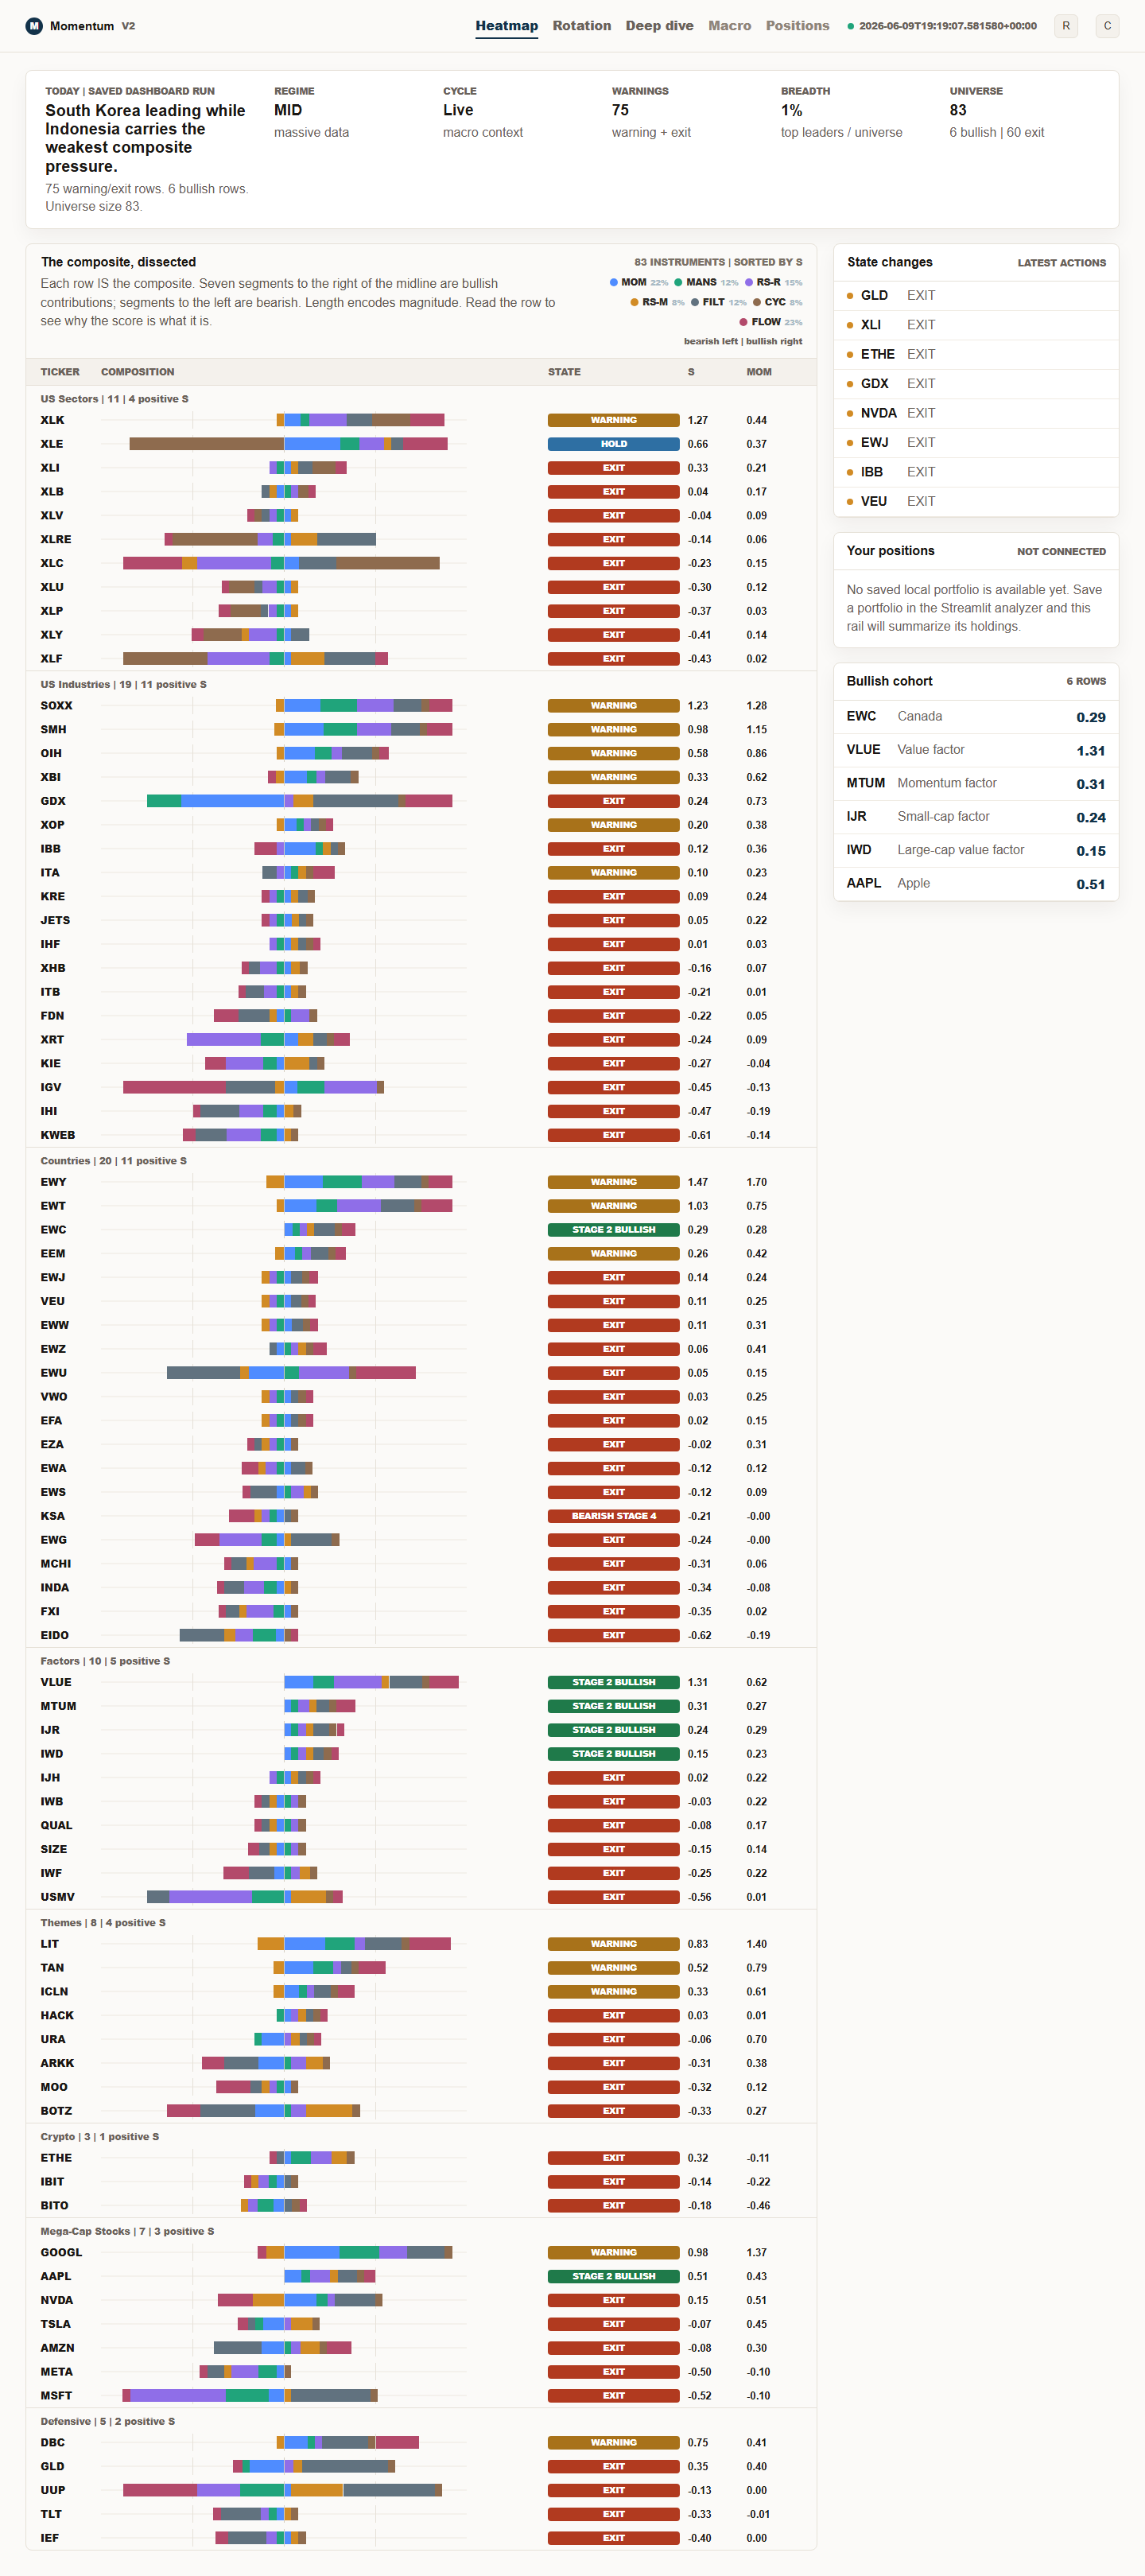
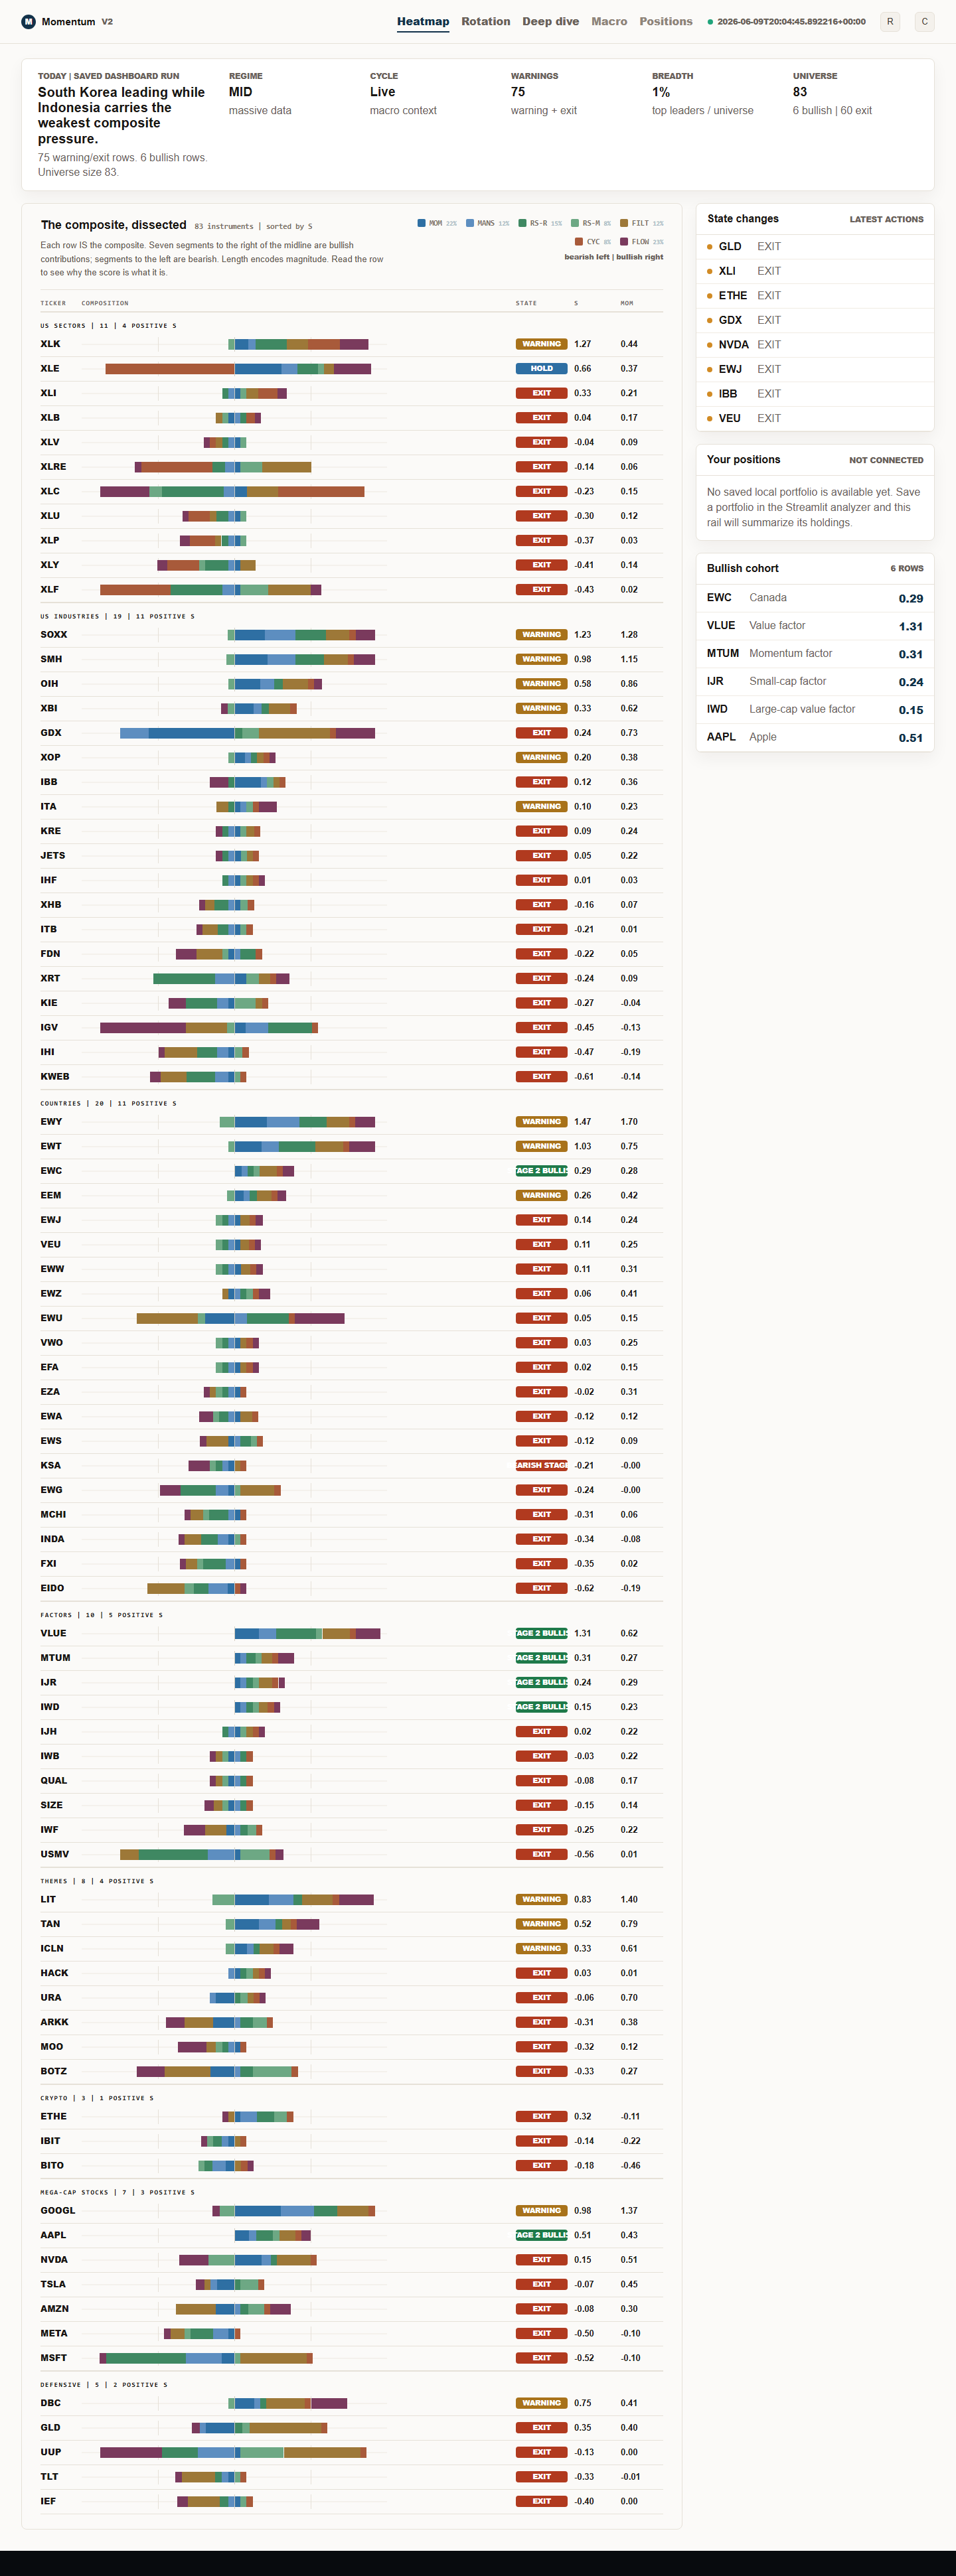
Improve C1 heatmap handoff parity

diff --git a/web/app/globals.css b/web/app/globals.css
@@ -3184,6 +3184,8 @@ select:focus-visible {
 }
 
 .pillar-heatmap-card {
+  padding: 22px 28px;
+  background: #fff;
   overflow: visible;
 }
 
@@ -3199,6 +3201,15 @@ select:focus-visible {
   gap: 20px;
   padding: 14px 18px;
   border-bottom: 1px solid #e6e1d8;
+}
+
+.pillar-heatmap-card .chart-heading {
+  margin: 0 0 8px;
+  padding: 0 0 14px;
+}
+
+.c-heatmap-heading {
+  align-items: flex-start;
 }
 
 .chart-heading-meta {
@@ -3226,10 +3237,32 @@ select:focus-visible {
   font-size: 1rem;
 }
 
+.c-heatmap-heading h3 {
+  display: inline;
+  margin-right: 12px;
+  font-size: 1.125rem;
+  font-weight: 700;
+  letter-spacing: 0;
+}
+
+.c-heatmap-heading div:first-child > span {
+  color: #7a7066;
+  font-family: ui-monospace, SFMono-Regular, Consolas, monospace;
+  font-size: 0.72rem;
+  font-weight: 800;
+}
+
 .chart-heading p {
   margin: 0;
   color: #5d554d;
   line-height: 1.45;
+}
+
+.c-heatmap-heading p {
+  max-width: 680px;
+  margin-top: 10px;
+  font-size: 0.82rem;
+  line-height: 1.55;
 }
 
 .chart-heading strong {
@@ -3240,7 +3273,7 @@ select:focus-visible {
 .pillar-legend {
   display: flex;
   flex-wrap: wrap;
-  gap: 8px;
+  gap: 14px;
   align-items: center;
   justify-content: flex-end;
   min-width: 240px;
@@ -3249,32 +3282,36 @@ select:focus-visible {
 .pillar-legend span {
   display: inline-flex;
   align-items: center;
-  gap: 5px;
+  gap: 6px;
   color: #312c27;
-  font-size: 0.72rem;
+  font-family: ui-monospace, SFMono-Regular, Consolas, monospace;
+  font-size: 0.66rem;
   font-weight: 800;
 }
 
 .pillar-legend i {
-  width: 10px;
-  height: 10px;
-  border-radius: 50%;
+  width: 12px;
+  height: 12px;
+  border-radius: 2px;
 }
 
 .composition-header,
 .composition-row {
   display: grid;
-  grid-template-columns: 66px minmax(260px, 1fr) minmax(110px, 0.3fr) 64px 70px;
+  grid-template-columns: 52px minmax(260px, 1fr) 78px 60px 64px;
   gap: 10px;
   align-items: center;
 }
 
 .composition-header {
-  padding: 8px 18px;
+  padding: 6px 0;
   color: #6a625a;
-  background: #f4f1ec;
-  font-size: 0.72rem;
+  background: transparent;
+  border-bottom: 1px solid #e6e1d8;
+  font-family: ui-monospace, SFMono-Regular, Consolas, monospace;
+  font-size: 0.64rem;
   font-weight: 800;
+  letter-spacing: 0.08em;
   text-transform: uppercase;
 }
 
@@ -3283,21 +3320,25 @@ select:focus-visible {
 }
 
 .composition-class {
-  padding: 8px 18px 3px;
-  color: #6a625a;
-  font-size: 0.74rem;
+  padding: 14px 0 4px;
+  color: #1a1714;
+  font-family: ui-monospace, SFMono-Regular, Consolas, monospace;
+  font-size: 0.64rem;
   font-weight: 800;
+  letter-spacing: 0.12em;
+  text-transform: uppercase;
 }
 
 .composition-row {
   width: 100%;
-  min-height: 25px;
-  padding: 4px 18px;
+  min-height: 36px;
+  padding: 7px 0;
   color: #1a1714;
   font: 700 0.82rem/1.05 Arial, Helvetica, sans-serif;
   text-align: left;
   background: transparent;
   border: 0;
+  border-bottom: 1px solid #e6e1d8;
   cursor: pointer;
 }
 

diff --git a/web/app/chart-primitives.tsx b/web/app/chart-primitives.tsx
@@ -21,13 +21,13 @@ type PillarContribution = PillarDef & {
 };
 
 const PILLARS: PillarDef[] = [
-  { key: "mom_12_1", code: "MOM", fullName: "12-1 Momentum", label: "Momentum", hue: "#4f8cff", weight: 0.22, reading: "12-1 price momentum contribution", evidence: "Jegadeesh & Titman 1993" },
-  { key: "mansfield_rs", code: "MANS", fullName: "Mansfield RS", label: "Mansfield RS", hue: "#20a47b", weight: 0.12, reading: "relative strength against the benchmark", evidence: "Weinstein 1988" },
-  { key: "rs_ratio", code: "RS-R", fullName: "RRG RS-Ratio", label: "RS ratio", hue: "#8f6ee8", weight: 0.15, reading: "RRG relative-strength ratio", evidence: "de Kempenaer 2004" },
-  { key: "rs_momentum", code: "RS-M", fullName: "RRG RS-Momentum", label: "RS momentum", hue: "#d18b25", weight: 0.08, reading: "RRG relative-strength momentum", evidence: "classic rotation signal" },
-  { key: "breadth_50d", code: "FILT", fullName: "Binary Filters", label: "Trend filter", hue: "#61727f", weight: 0.12, reading: "market breadth and trend filter", evidence: "Faber + Stage2 + Antonacci" },
-  { key: "cycle_tilt", code: "CYC", fullName: "Business-Cycle Tilt", label: "Cycle tilt", hue: "#8e6b4e", weight: 0.08, reading: "business-cycle adjustment", evidence: "Stovall 1996 / Fidelity" },
-  { key: "cmf21", code: "FLOW", fullName: "Institutional Flow", label: "Flow", hue: "#b34a6b", weight: 0.23, reading: "money-flow pressure", evidence: "Chaikin / Granville / Chordia-Swaminathan" },
+  { key: "mom_12_1", code: "MOM", fullName: "12-1 Momentum", label: "Momentum", hue: "#2e6fa3", weight: 0.22, reading: "12-1 price momentum contribution", evidence: "Jegadeesh & Titman 1993" },
+  { key: "mansfield_rs", code: "MANS", fullName: "Mansfield RS", label: "Mansfield RS", hue: "#5d8ec0", weight: 0.12, reading: "relative strength against the benchmark", evidence: "Weinstein 1988" },
+  { key: "rs_ratio", code: "RS-R", fullName: "RRG RS-Ratio", label: "RS ratio", hue: "#3f8862", weight: 0.15, reading: "RRG relative-strength ratio", evidence: "de Kempenaer 2004" },
+  { key: "rs_momentum", code: "RS-M", fullName: "RRG RS-Momentum", label: "RS momentum", hue: "#6da884", weight: 0.08, reading: "RRG relative-strength momentum", evidence: "classic rotation signal" },
+  { key: "breadth_50d", code: "FILT", fullName: "Binary Filters", label: "Trend filter", hue: "#9d7838", weight: 0.12, reading: "market breadth and trend filter", evidence: "Faber + Stage2 + Antonacci" },
+  { key: "cycle_tilt", code: "CYC", fullName: "Business-Cycle Tilt", label: "Cycle tilt", hue: "#a85a3a", weight: 0.08, reading: "business-cycle adjustment", evidence: "Stovall 1996 / Fidelity" },
+  { key: "cmf21", code: "FLOW", fullName: "Institutional Flow", label: "Flow", hue: "#7a3a5d", weight: 0.23, reading: "money-flow pressure", evidence: "Chaikin / Granville / Chordia-Swaminathan" },
 ];
 
 const CLASS_ORDER = [
@@ -198,13 +198,13 @@ export function PillarHeatmap({
   const sortedRows = rows.slice().sort((a, b) => b.s_score - a.s_score);
   return (
     <section className="chart-card light-card pillar-heatmap-card" aria-label="Composite pillar-stack heatmap" title={sourceNote}>
-      <div className="chart-heading">
+      <div className="chart-heading c-heatmap-heading">
         <div>
           <h3>The composite, dissected</h3>
+          <span>{rows.length} instruments | sorted by S</span>
           <p>Each row IS the composite. Seven segments to the right of the midline are bullish contributions; segments to the left are bearish. Length encodes magnitude. Read the row to see why the score is what it is.</p>
         </div>
         <div className="chart-heading-meta">
-          <span>{rows.length} instruments | sorted by S</span>
           <PillarLegend />
           <span className="composition-axis-copy">bearish left | bullish right</span>
         </div>

diff --git a/tests/test_next_shell_static.py b/tests/test_next_shell_static.py
@@ -252,6 +252,31 @@ def test_next_shell_pillar_stack_has_native_value_specific_tooltips():
     assert "white-space: normal;" in css_source
 
 
+def test_next_shell_c1_heatmap_uses_handoff_pillar_palette_and_layout():
+    chart_source = (WEB / "app" / "chart-primitives.tsx").read_text(encoding="utf-8")
+    css_source = (WEB / "app" / "globals.css").read_text(encoding="utf-8")
+
+    for hue in ("#2e6fa3", "#5d8ec0", "#3f8862", "#6da884", "#9d7838", "#a85a3a", "#7a3a5d"):
+        assert hue in chart_source
+    for marker in (
+        'className="chart-heading c-heatmap-heading"',
+        "{rows.length} instruments | sorted by S",
+        "PillarLegend",
+        "composition-axis-copy",
+    ):
+        assert marker in chart_source
+    for marker in (
+        ".pillar-heatmap-card",
+        "padding: 22px 28px;",
+        "background: #fff;",
+        ".c-heatmap-heading h3",
+        "grid-template-columns: 52px minmax(260px, 1fr) 78px 60px 64px;",
+        "font-family: ui-monospace, SFMono-Regular, Consolas, monospace;",
+        "border-bottom: 1px solid #e6e1d8;",
+    ):
+        assert marker in css_source
+
+
 def test_next_shell_rrg_and_flow_have_native_value_specific_tooltips():
     chart_source = (WEB / "app" / "chart-primitives.tsx").read_text(encoding="utf-8")
     css_source = (WEB / "app" / "globals.css").read_text(encoding="utf-8")

diff --git a/docs/BACKLOG.md b/docs/BACKLOG.md
@@ -16,7 +16,7 @@ Status legend:
 **Behavior:** adds a pure JSON status contract for dashboard health lanes and an optional FastAPI app factory with `/api/v1/health`, `/api/v1/status`, `GET /api/v1/data-health`, `GET /api/v1/provider-health`, `GET /api/v1/dashboard-snapshot`, `GET /api/v1/backtest-artifacts`, `GET /api/v1/ticker-chart`, `POST /api/v1/portfolio/analyze`, `GET /api/v1/portfolios`, `POST /api/v1/portfolios`, `DELETE /api/v1/portfolios?name=...`, `POST /api/v1/refresh`, `GET /api/v1/refresh/{job_id}`, and `GET /api/v1/refresh/{job_id}/events`. The default API status provider reads persisted state-machine storage, run-journal metadata, and Massive provider-snapshot coverage without importing Streamlit, fetching providers, recomputing indicators, or mutating live scoring state. The data/provider-health API additionally exposes provider-flow readiness and provider-flow cache coverage from persisted/configured state only, so future clients can show provider health without live provider calls. The backtest artifact API reports existing manual report/equity/state artifact presence, timestamps, hashes, metadata verification state, report text, and equity rows without running backtests, calibration, provider fetches, or research jobs; the Next shell consumes it in a collapsed Backtest Lab panel with artifact statuses, report preview, and an API-row equity preview. The ticker chart API reads cached OHLCV only, computes weekly close, 30-week moving average, CMF(21), OBV, OBV slope, benchmark-relative RS ratio, 12-week momentum, and 52-week momentum rows, and the React C2 deep dive fetches the selected ticker chart asynchronously while falling back to saved gate evidence if cached chart data is unavailable. The portfolio analysis API accepts a single ticker, JSON holdings, CSV text, or base64 CSV/XLSX content and maps holdings onto the latest persisted dashboard snapshot without provider fetches, scoring recompute, broker calls, portfolio persistence, or state writes; saved-portfolio routes explicitly reuse `data/saved_inputs.json` for named portfolio list/save/delete. The Next shell now includes an API-backed portfolio analyzer for ticker, pasted CSV, and uploaded CSV/XLS/XLSX inputs, with exposure summaries, missing ticker diagnostics, click-through rows into the dashboard focus, and explicit save/load/delete controls for named portfolios. Refresh jobs and progress events are persisted in local SQLite so a future React/Next.js frontend can create refresh requests and reconnect to progress state while the current dashboard keeps running. The refresh endpoint is queue-only by default; when a caller explicitly sends `run_now: true`, `src/api_refresh_runner.py` executes the existing headless Massive/FRED/dashboard refresh sequence and records phase progress. The first Next.js shell under `web/` consumes `/api/v1/health`, `/api/v1/data-health`, and `/api/v1/dashboard-snapshot`, renders persisted/provider health lanes plus A/B/C overview, deep-dive, and rotation sections from the latest run-journal snapshot, keeps provider calls behind the API, and now has native React screen selection, sortable overview lists, ticker focus selection, click-through cards/rows, rotation quadrant filtering, API-fed SVG primitives for pillar-stack rows, ticker waterfall, RRG, momentum bars, a relative-strength/momentum deep-dive panel, and a data-derived flow river, a light `?presentation=c` Display C candidate layout, plus a repeatable Playwright screenshot QA harness against the C1/C2/C3 handoff PNGs.
 **Activation:** install `requirements.txt`, build the Next app with `npm --prefix web run build`, then optionally install the candidate `sector-api.service` and `sector-next.service` templates; no Pi service switch is made by this ticket.
 **Migration plan:** keep Streamlit as the production frontend until API-backed React screens reach parity. The candidate API/Next services and Cloudflare route plan are documented for a separate `next-sentimentdashboard.ahaddashboards.uk` hostname, while `sentimentdashboard.ahaddashboards.uk` stays routed to Streamlit. Streamlit route remains production until feature parity, data parity, visual parity, and rollback gates are accepted.
-**Evidence:** Next handoff browser QA screenshots and similarity reports are stored in `docs/browser-qa/next-handoff/latest`; the latest `?presentation=c` run has required text/nonblank passes for C1/C2/C3 with current similarity 0.7795 for overview, 0.8386 for deep dive, and 0.8524 for rotation. The latest `?presentation=a` terminal run has required text/nonblank passes for A1/A2/A3 with current similarity 0.8704 for overview, 0.8736 for deep dive, and 0.8939 for rotation. The latest `?presentation=b` editorial run has required text/nonblank passes for B1/B2/B3 with current similarity 0.8427 for overview, 0.8134 for deep dive, and 0.8454 for rotation. The overview now uses cumulative stacked pillar bars and data-backed positions/brief rails instead of handoff fixture holdings, with the QA helper preserving the current real row universe while trimming duplicate transport payload sections. The C1 overview also removes the visible run-journal/debug rail card while preserving provenance as heatmap metadata. The deep dive now has C2/A2/B2-style waterfall, terminal, and editorial variants, weighted pillar-detail cards with evidence tags, run-journal-backed gate/evidence panels, numbered live-data article paragraphs, compact editorial gate tables, and cached ticker-chart sidebar panels so the first-pass visual structure remains closer to the handoff while retaining extra real-data panels on demand. The rotation screen now keeps flow-river/terminal/editorial rotation compositions backed by live snapshot rows for flow-pressure sorting, row-specific flow explanations, and a light editorial RRG/leaderboard treatment for B3.
+**Evidence:** Next handoff browser QA screenshots and similarity reports are stored in `docs/browser-qa/next-handoff/latest`; the latest `?presentation=c` run has required text/nonblank passes for C1/C2/C3 with current similarity 0.7911 for overview, 0.8376 for deep dive, and 0.8523 for rotation after the C1 heatmap moved closer to the handoff palette, padded panel, header, legend, and row-grid treatment. The latest `?presentation=a` terminal run has required text/nonblank passes for A1/A2/A3 with current similarity 0.8704 for overview, 0.8736 for deep dive, and 0.8939 for rotation. The latest `?presentation=b` editorial run has required text/nonblank passes for B1/B2/B3 with current similarity 0.8427 for overview, 0.8134 for deep dive, and 0.8454 for rotation. The overview now uses cumulative stacked pillar bars and data-backed positions/brief rails instead of handoff fixture holdings, with the QA helper preserving the current real row universe while trimming duplicate transport payload sections. The C1 overview also removes the visible run-journal/debug rail card while preserving provenance as heatmap metadata. The deep dive now has C2/A2/B2-style waterfall, terminal, and editorial variants, weighted pillar-detail cards with evidence tags, run-journal-backed gate/evidence panels, numbered live-data article paragraphs, compact editorial gate tables, and cached ticker-chart sidebar panels so the first-pass visual structure remains closer to the handoff while retaining extra real-data panels on demand. The rotation screen now keeps flow-river/terminal/editorial rotation compositions backed by live snapshot rows for flow-pressure sorting, row-specific flow explanations, and a light editorial RRG/leaderboard treatment for B3.
 **Residual risk:** this is a foundation slice only. The API runner can execute the real headless refresh when explicitly requested, and the initial Next shell now has lockfile/audit/build evidence plus journal-backed A/B/C screen foundations, native React interactions, API-fed chart primitives, async cached ticker price/flow/relative-strength/momentum chart data, screenshot QA evidence, read-only portfolio analysis API/UI coverage, explicit saved-portfolio API/UI persistence coverage, read-only backtest artifact API/UI coverage, a read-only Streamlit-retirement readiness checker, and candidate service/route templates. The candidate services are not yet installed as the live production route, and there is not yet handoff-pixel A/B/C React parity or an accepted Streamlit retirement decision.
 
 ### B-001 · HTML render fix for action cards (BLUF) - IMPLEMENTED

diff --git a/docs/superpowers/plans/2026-06-08-b170-production-dashboard-migration.md b/docs/superpowers/plans/2026-06-08-b170-production-dashboard-migration.md
@@ -83,7 +83,7 @@ Start by extracting pure response contracts and optional API boundaries. Do not 
 - [x] Add Playwright screenshot QA against the design handoff PNG/HTML references.
   - [x] `scripts/capture_next_handoff_qa.py` captures Overview, Deep Dive, and Rotation against C1/C2/C3 references.
   - [x] `scripts/serve_next_qa_api.py` provides a QA-only read-only API fallback when FastAPI is not installed locally.
-  - [x] Latest profile-C evidence targets `http://127.0.0.1:3100/?presentation=c`; required text/nonblank checks pass for C1/C2/C3 with current similarity 0.7795 overview, 0.8386 deep dive, and 0.8524 rotation after tightening the signed pillar-stack primitive and removing the visible C1 run-journal/debug rail card while keeping provenance as heatmap metadata, while remaining below a pixel-parity release gate.
+  - [x] Latest profile-C evidence targets `http://127.0.0.1:3100/?presentation=c`; required text/nonblank checks pass for C1/C2/C3 with current similarity 0.7911 overview, 0.8376 deep dive, and 0.8523 rotation after moving the C1 heatmap closer to the handoff palette, padded panel, header, legend, and row-grid treatment while keeping provenance as heatmap metadata, while remaining below a pixel-parity release gate.
   - [x] Latest profile-A evidence targets `http://127.0.0.1:3100/?presentation=a`; required text/nonblank checks pass for A1/A2/A3 with current similarity 0.8704 overview, 0.8736 deep dive, and 0.8939 rotation after the shared signed pillar-stack primitive update, while remaining below a pixel-parity release gate.
   - [x] Latest profile-B evidence targets `http://127.0.0.1:3100/?presentation=b`; required text/nonblank checks pass for B1/B2/B3 with current similarity 0.8427 overview, 0.8134 deep dive, and 0.8454 rotation after replacing the dark terminal RRG with a live-data editorial rotation figure, compact leaderboards, numbered B2 article paragraphs, compact gate table, and cached ticker-chart sidebar panels, while remaining below a pixel-parity release gate.
   - [x] The screenshot QA helper now hides the Next development overlay before capture and compacts duplicate snapshot sections below the local transport limit while preserving the current real row universe.